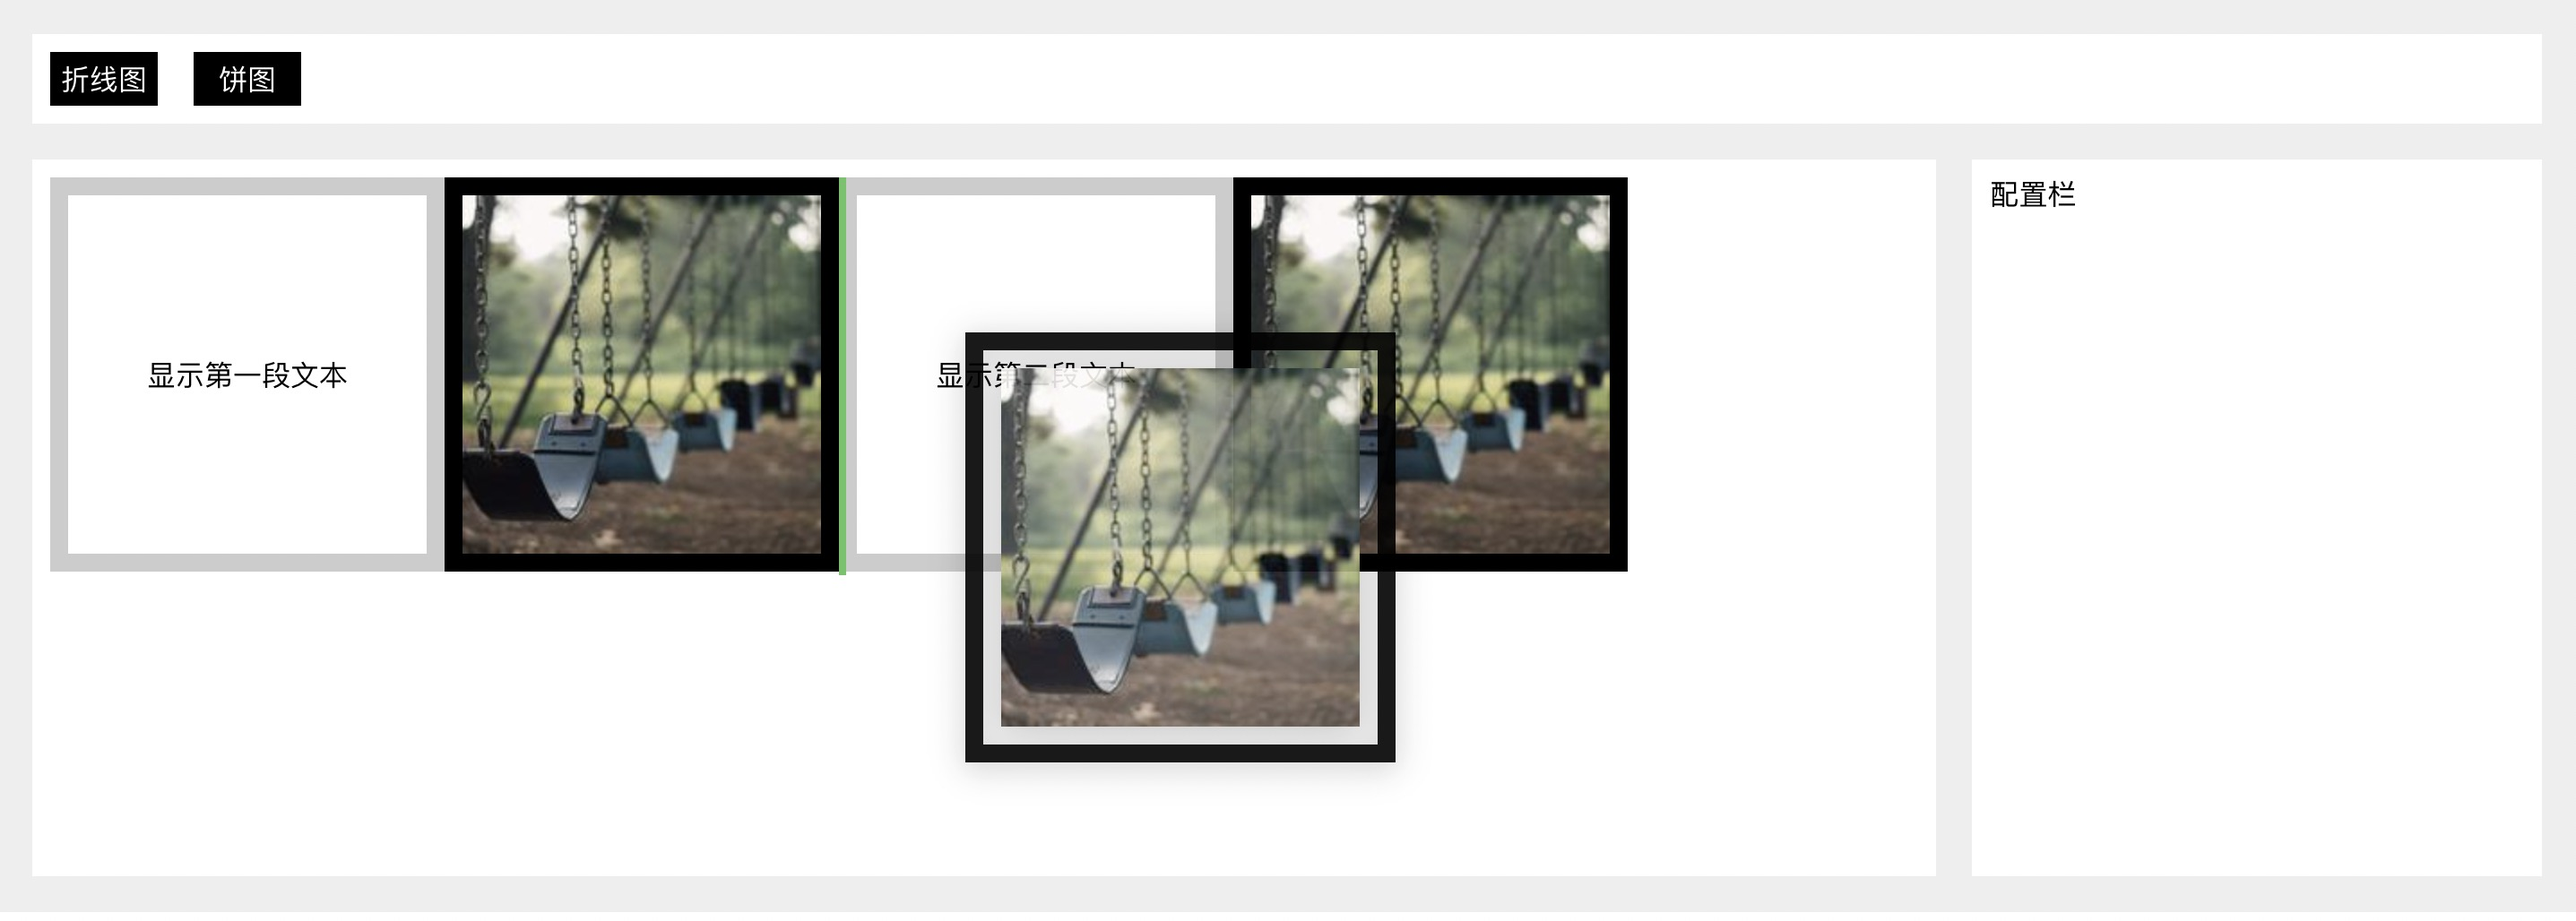
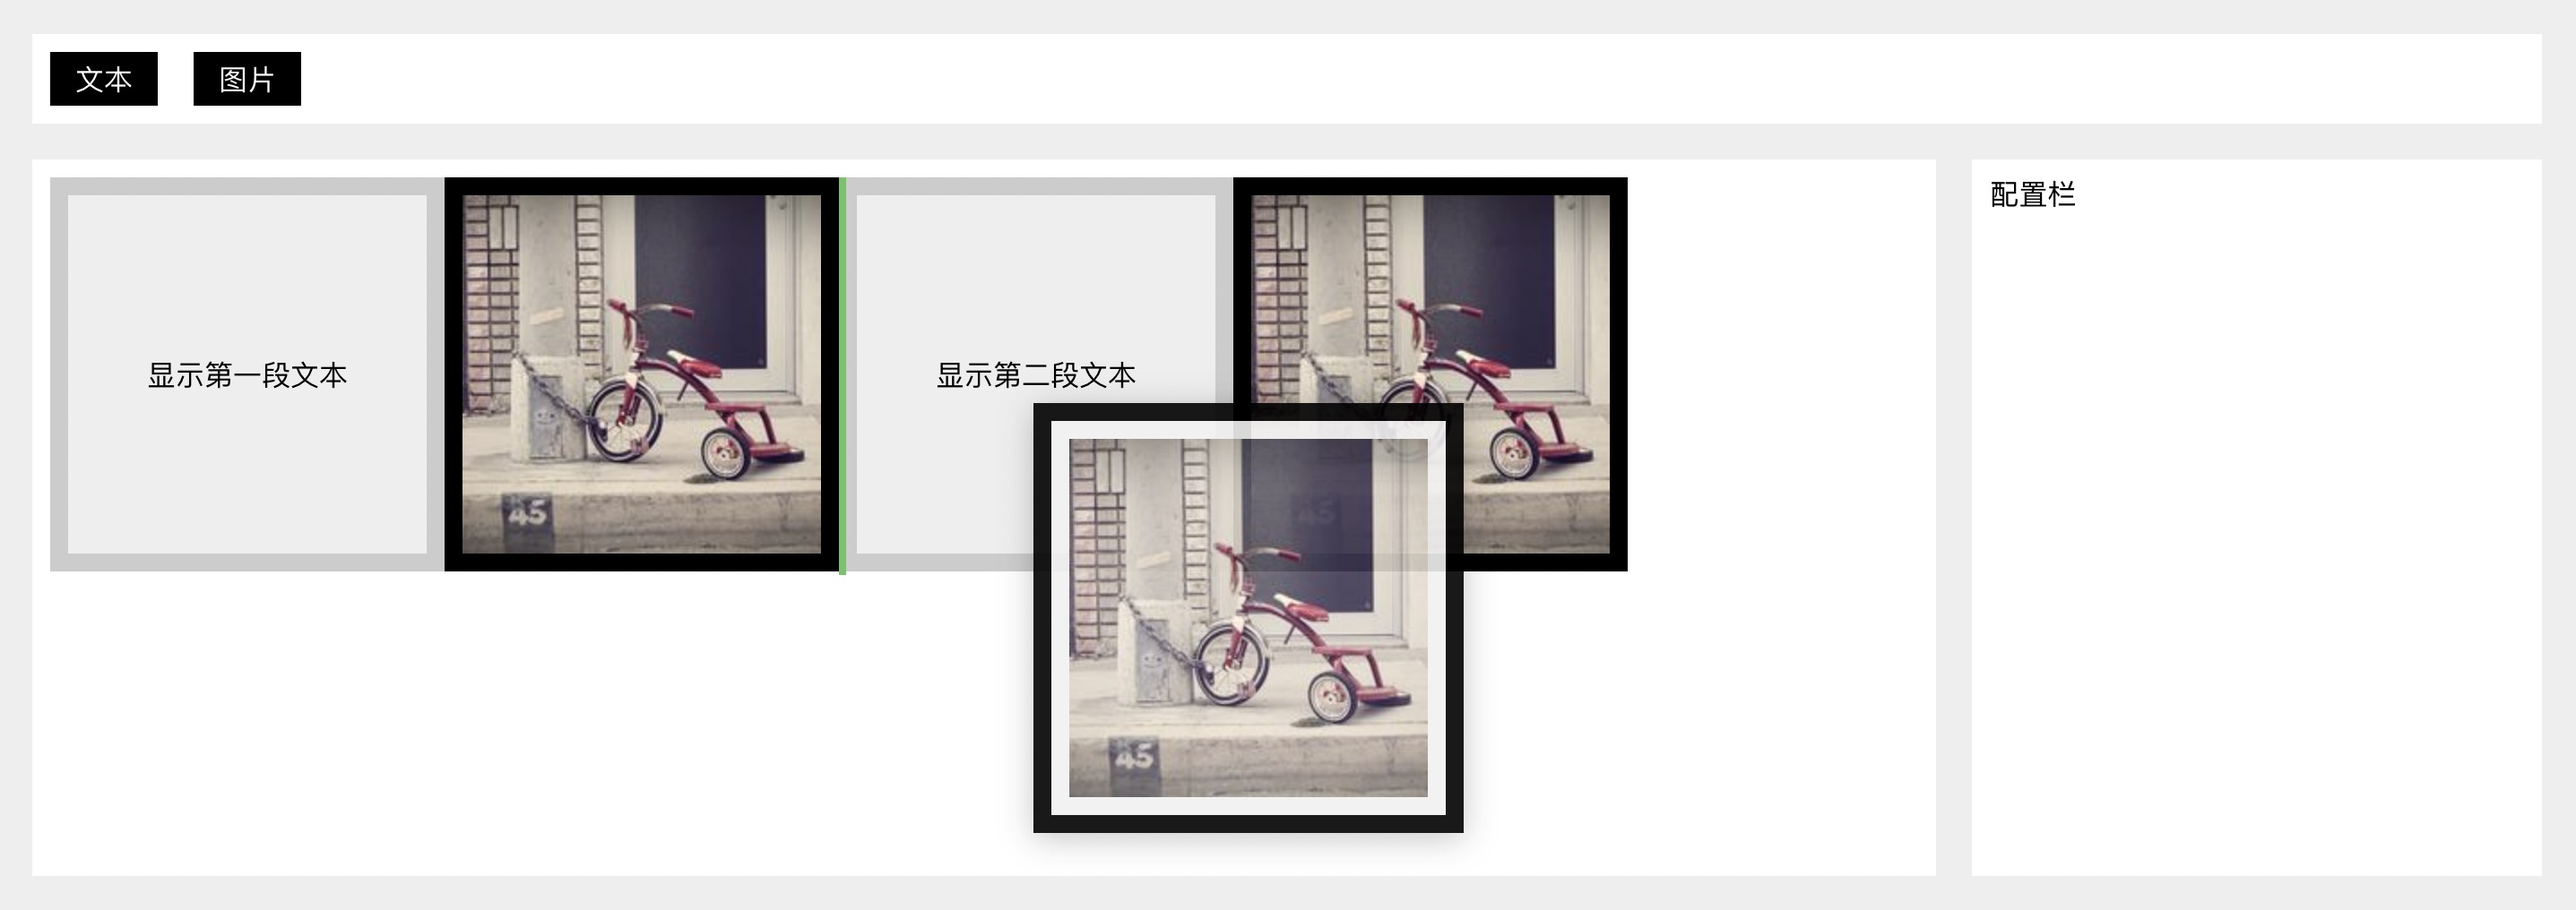
Craft.js 入门与实践

diff --git a/static/wp-content/themes/hueman-child/user.css b/static/wp-content/themes/hueman-child/user.css
@@ -102,7 +102,7 @@ a,
 }
 
 #nav-topbar.nav-container, .nav-container {
-    background: none;
+    /* background: none; */
     transition: all 0.3s ease-in-out;
 }
 

diff --git a/content/post/2021/2021-10-29-craftjs-introduction.md b/content/post/2021/2021-10-29-craftjs-introduction.md
@@ -1,5 +1,5 @@
 ---
-title: "Craft.js 从入门到进阶"
+title: "Craft.js 入门与实践"
 date: 2021-10-29T21:22:59+08:00
 description: "Craft.js 是一个用于构建可扩展的拖放页面编辑器的 React 库"
 author: "gafish"
@@ -125,7 +125,6 @@ src/
 本文中我们主要讲解js逻辑，所以本文会省略css代码，此时代码如下：
 
 `src/Demo1/index.js`
-
 ```js
 import React from 'react'
 import { Editor } from '@craftjs/core'
@@ -145,7 +144,6 @@ export default App
 ```
 
 `src/Demo1/Main.js`
-
 ```js
 import React from 'react'
 import { Frame, Element } from '@craftjs/core'
@@ -156,8 +154,8 @@ function App() {
   return (
     <div className="app">
       <div className="head">
-        <div className="item">折线图</div>
-        <div className="item">饼图</div>
+        <div className="item">文本</div>
+        <div className="item">图片</div>
       </div>
       <div className="container">
 
@@ -189,17 +187,282 @@ function App() {
 export default App
 ```
 
-以上代码我们定义了编辑器的基本结构，当拖拽 `<Element />` 的子节点时，会出现一个绿色的占位条，放开组件就会移动到当前占位位置。
+以上代码我们定义了编辑器的基本结构，当拖拽 `<Element />` 的子节点时，会出现一个绿色的**放置指示器**，放开组件就会移动到当前放置位置。
 
 预览效果
 
 ![](/images/2021-10-29-craftjs-introduction/1.jpg)
 
 ## 添加组件
-...
+
+上述示例中，编辑器中的组件是固定不变的，接下来我们通过 `useEditor()` 提供的 `create` 方法以拖拽的方式来为编辑器添加组件。
+
+修改 `src/Demo1/Main.js`
+```diff
+import React from 'react'
+-import { Frame, Element } from '@craftjs/core'
++import { Frame, Element, useEditor } from '@craftjs/core'
+
+import './Main.css'
+
+function App() {
++  const { connectors } = useEditor()
++  const { create } = connectors
+
+  return (
+    <div className="app">
+      <div className="head">
+-        <div className="item">文本</div>
+-        <div className="item">图片</div>
++        <div
++          className="item"
++          ref={ref => create(ref, <div className="text">显示一段文本</div>)}
++        >文本</div>
++        <div
++          className="item"
++          ref={ref => create(ref, 
++            <div className="image">
++              <img src="https://picsum.photos/200/200" alt=""/>
++            </div>
++          )}
++        >图片</div>
+      </div>
+      <div className="container">
+
+        <Frame>
+            <Element is="div" className="main" canvas>
+-              <div className="text">
+-                显示第一段文本
+-              </div>
+-              <div className="image">
+-                <img src="https://picsum.photos/200/200" alt=""/>
+-              </div>
+-              <div className="text">
+-                显示第二段文本
+-              </div>
+-              <div className="image">
+-                <img src="https://picsum.photos/200/200" alt=""/>
+-              </div>
+            </Element>
+        </Frame>
+        
+        <div className="sider">
+          <div className="title">配置栏</div>
+        </div>
+      </div>
+    </div>
+  )
+}
+
+export default App
+```
+
+此时我们就可以通过拖拽的方式不断的从顶部拖动新组件到编辑器中，同时组件之间也可以调整位置。
+
+预览效果
+
+![](/images/2021-10-29-craftjs-introduction/2.jpg)
+
+## 组件抽象
+
+在目前的示例代码中，我们将组件 `<div className="text">显示一段文本</div>` 在代码中写死作为 `create` 的第2个参数，接下来我们来讲解如何将组件抽象成独立的组件，该章节中我们仅以文本组件为讲解示例，图片组件方法类似所以过程省略。
+
+新建文本组件 `src/Demo1/Text.js`
+```js
+function Text(props) {
+  const { text = '默认文本' } = props
+  return (
+    <div className="text">
+      {text}
+    </div>
+  )
+}
+
+export default Text
+```
+
+在 `src/Demo1/Main.js` 中引入新建的组件替换之前的组件部分，此时如果预览页面，你会发现从顶部拖拽可以添加新组件，但添加的组件之间位置无法调整了，WHY?
+
+这是因为在抽象成自定义组件之前，`create` 的参数是一个原生的 `div` 组件，它和 `<Editor />` 的默认行为是连接且可拖拽，但是自定义组件默认和 `<Editor />` 没有连接且不可拖拽，所以我们需要在自定义组件中使用 `connect` 方法连接到 `<Editor />`，并通过 `drag` 方法为自定义组件添加拖拽行为。
+
+这里要注意的是 `connect` 方法的执行位置，决定了**放置指示器**的位置， `drag` 方法的执行位置，决定了自定义组件可拖拽区域的位置。
+
+修改文本组件 `src/Demo1/Text.js`
+```diff
++import { useNode } from '@craftjs/core'
+
+function Text(props) {
+  const { text = '默认文本' } = props
++  const { connectors } = useNode()
++  const { connect, drag } = connectors
+
+  return (
+    <div
+      className="text"
++      ref={ref => {
++        connect(ref)
++        drag(ref)
++      }}
+    >
+      {text}
+    </div>
+  )
+}
+
+export default Text
+```
+
+修改 `src/Demo1/Main.js`
+```diff
+import React from 'react'
+import { Frame, Element, useEditor } from '@craftjs/core'
+
++import Text from './Text'
++import Image from './Image'
+
+import './Main.css'
+
+function App() {
+  const { connectors } = useEditor()
+  const { create } = connectors
+
+  return (
+    <div className="app">
+      <div className="head">
+        <div
+          className="item"
+-          ref={ref => create(ref, <div className="text">显示一段文本</div>)}
++          ref={ref => create(ref, <Text />)}
+        >文本</div>
+        <div
+          className="item"
+-          ref={ref => create(ref, 
+-            <div className="image">
+-              <img src="https://picsum.photos/200/200" alt=""/>
+-            </div>
+-          )}
++          ref={ref => create(ref, <Image />)}
+        >图片</div>
+      </div>
+      <div className="container">
+
+        <Frame>
+            <Element is="div" className="main" canvas>
+            </Element>
+        </Frame>
+        
+        <div className="sider">
+          <div className="title">配置栏</div>
+        </div>
+      </div>
+    </div>
+  )
+}
+
+export default App
+```
+
+预览效果
+
+![](/images/2021-10-29-craftjs-introduction/3.jpg)
 
 ## 组件设置
-...
+
+在可视化编辑器中，`组件`和`组件设置`通常是相关联的，我们在设置中做的改动都需要即时的在组件中得到显示反馈，所以这里就存在一个共享上下文的问题。
+
+`craft.js` 可以给自定义组件添加静态属性 `craft` ，它的值会与`组件设置`共享
+
+我们先新建一个文本设置组件 `src/Demo1/TextSetting.js`
+```js
+function TextSetting() {
+  return (
+    <div>
+      文本内容：
+      <input />
+    </div>
+  )
+}
+
+export default TextSetting
+```
+
+在文本组件中，通过在静态属性 `craft` 的 `related` 字段中添加对 `TextSetting` 的引用，这样就可以将`组件`和`组件设置`进行关联，同时在静态属性 `craft` 中设置 `props` ，将组件的默认配置放在这里，这样就可以在`组件`和`组件设置`之间进行 `props` 共享。
+
+修改 `src/Demo1/Text.js`
+```diff
+import { useNode } from '@craftjs/core'
++import TextSetting from './TextSetting'
+
+function Text(props) {
+-  const { text = '默认文本' } = props
+-  const { connectors } = useNode()
++  const { connectors, node } = useNode(node => ({ node }))
++  const { text } = node.data.props
+  const { connect, drag } = connectors
+
+  return (
+    <div
+      className="text"
+      ref={ref => {
+        connect(ref)
+        drag(ref)
+      }}
+    >
+      {text}
+    </div>
+  )
+}
+
++Text.craft = {
++  props: {
++    text: '默认文本',
++  },
++  related: {
++    setting: TextSetting,
++  },
++}
+
+export default Text
+```
+
+修改 `src/Demo1/TextSetting.js`
+```diff
++import { useNode } from '@craftjs/core'
+
+function TextSetting() {
++  const { node } = useNode(node => ({ node }))
++  const { text } = node.data.props
+
+  return (
+    <div>
+      文本内容：
+-      <input />
++      <input value={text} />
+    </div>
+  )
+}
+
+export default TextSetting
+```
+
+
+
+
+
+
+
+
+
+
+
+
+<!-- 
+
+另外 `<Editor />` 需要知道连接到它的自定义组件名称所对应的真实组件，所以这里需要给 `<Editor />` 添加一个 `resolver` 属性，明确告诉编辑器自定义组件的映射关系。
+
+
+
+ -->
 
 ## 编辑器结构序列化
 ...
